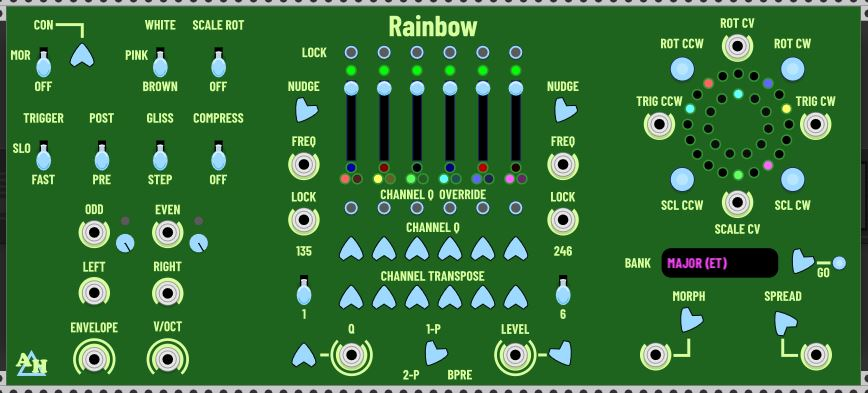
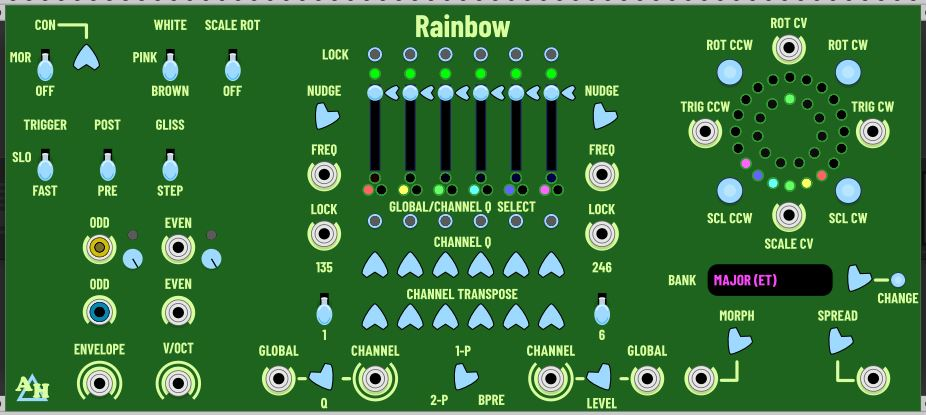
Update for release

diff --git a/README.md b/README.md
@@ -4,5 +4,5 @@ Prism is a plugin for the VCV virtual Eurorack environment.
 
 * [Rainbow](https://github.com/AmalgamatedHarmonics/Prism/wiki/Rainbow), a port of the 4ms SMR module to the VCV system.
 
-The latest release is 1.0.0. It is available through the [Plugin Manager](https://vcvrack.com/plugins.html). You can contact us at amalgamatedharmonics@outlook.com. 
+The latest release is 1.0.2. It is available through the [Plugin Manager](https://vcvrack.com/plugins.html). You can contact us at amalgamatedharmonics@outlook.com. 
 

diff --git a/CHANGELOG.md b/CHANGELOG.md
@@ -2,6 +2,15 @@
 
 ## Rainbow
 
+1.0.2
+* Split Level and Q CV inputs into separate global and channel inputs
+* Add indicator for channel level
+* Revise Level calculation
+* Revise Q calculation
+* Change Level LEDs to Q LEDs
+* Resolve clipping problem
+* Update UI text
+
 1.0.1 
 
 * Fix downsampling problem
